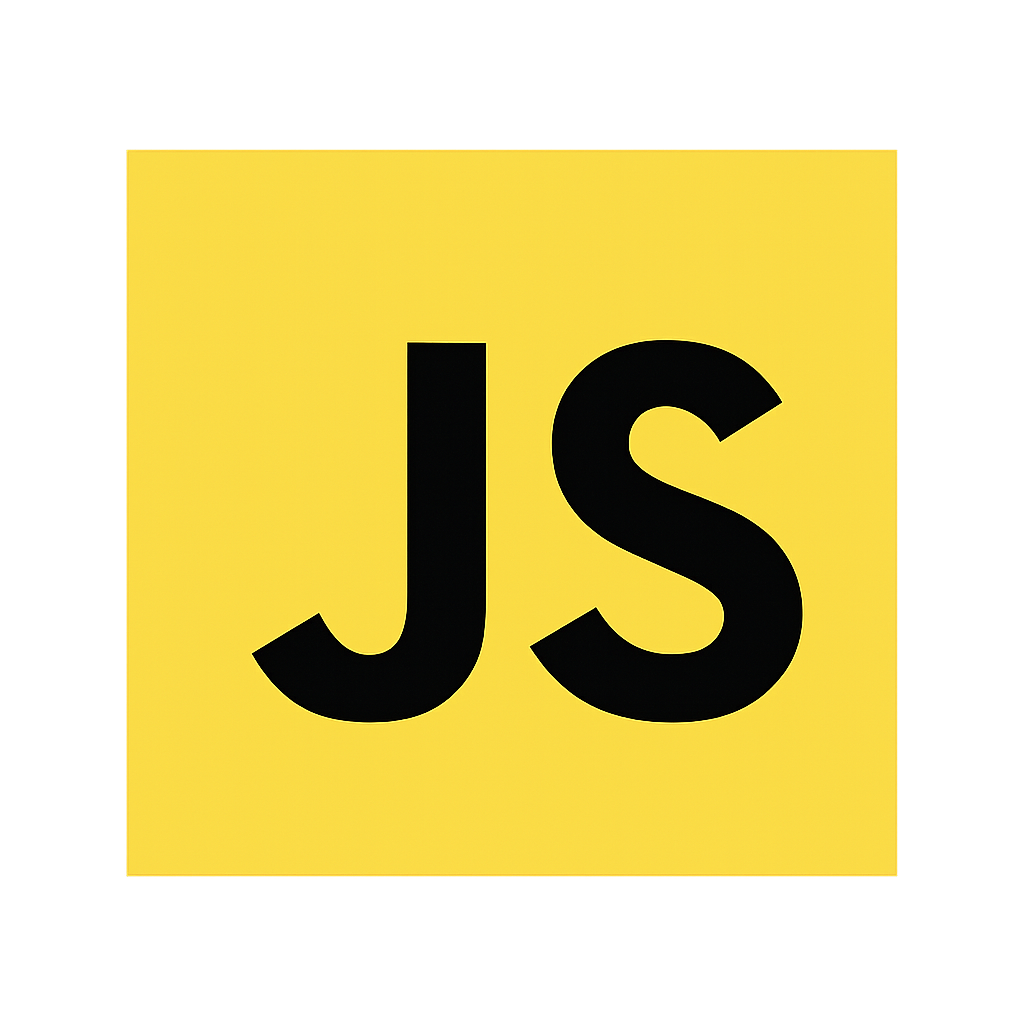
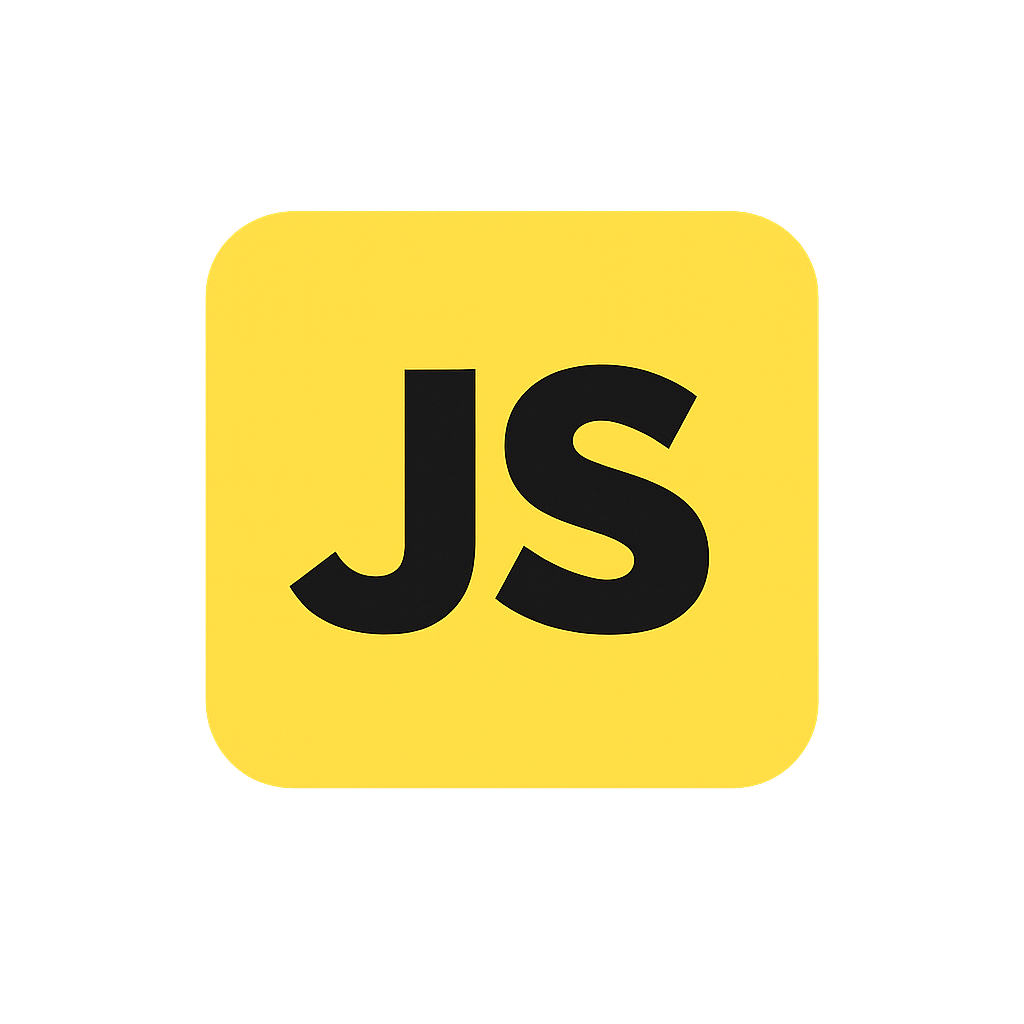
feet: ajuste de design na aba de habilidades

Changed region(s): [[0.125, 0.125, 0.875, 0.875]]

diff --git a/src/Body/Habilidades.jsx b/src/Body/Habilidades.jsx
@@ -9,79 +9,119 @@ export function Habilidades() {
         className="grid grid-cols-3 gap-8 gap-y-12 mb-4"
       >
         <li className="flex flex-col items-center">
-          <img
-            loading="eager"
-            decoding="async"
-            title="HTML"
-            src="/Habilidades/HTML.png"
-            alt="HTML"
-            className="h-14 w-14"
-          />
+          <div
+            className="w-20 h-20 rounded-md ring-2 ring-orange-400/50 
+              bg-[url('Habilidades/SkillsBg.png')] 
+                  bg-cover bg-center 
+                  flex items-center justify-center"
+          >
+            <div className=" w-full h-full flex items-center justify-center rounded-md">
+              <img
+                loading="eager"
+                decoding="async"
+                title="HTML"
+                src="Habilidades/HTML.png"
+                alt="HTML"
+                className=" pt-3"
+              />
+            </div>
+          </div>
         </li>
 
         <li className="flex flex-col items-center">
-          <img
-            loading="eager"
-            decoding="async"
-            title="CSS"
-            src="/Habilidades/CSS.png"
-            alt="CSS"
-            className="h-14 w-14"
-          />
+          <div
+            className="w-20 h-20 rounded-md ring-2 ring-blue-400/50 
+              bg-[url('Habilidades/SkillsBg.png')] 
+                  bg-cover bg-center 
+                  flex items-center justify-center"
+          >
+            <div className=" w-full h-full flex items-center justify-center rounded-md">
+              <img
+                loading="eager"
+                decoding="async"
+                title="CSS"
+                src="Habilidades/CSS.png"
+                alt="CSS"
+                className=" pt-2"
+              />
+            </div>
+          </div>
         </li>
 
         <li className="flex flex-col items-center">
-          <img
-            loading="eager"
-            decoding="async"
-            title="TAILWIND"
-            src="/Habilidades/TAILWIND.png"
-            alt="TAILWIND"
-            className="h-14 w-14"
-          />
+          <div
+            className="w-20 h-20 rounded-md ring-2 ring-sky-400/50 
+              bg-[url('Habilidades/SkillsBg.png')] 
+                  bg-cover bg-center 
+                  flex items-center justify-center"
+          >
+            <div className=" w-full h-full flex items-center justify-center rounded-md">
+              <img
+                loading="eager"
+                decoding="async"
+                title="Tailwind CSS"
+                src="Habilidades/TAILWIND.png"
+                alt="Tailwind CSS"
+              />
+            </div>
+          </div>
         </li>
 
         <li className="flex flex-col items-center">
-          <img
-            loading="eager"
-            decoding="async"
-            title="JavaScript"
-            src="/Habilidades/JS.png"
-            alt="JavaScript"
-            className="h-14 w-14"
-          />
+          <div
+            className="w-20 h-20 rounded-md ring-2 ring-yellow-200/50 
+              bg-[url('Habilidades/SkillsBg.png')] 
+                  bg-cover bg-center 
+                  flex items-center justify-center"
+          >
+            <div className=" w-full h-full flex items-center justify-center rounded-md">
+              <img
+                loading="eager"
+                decoding="async"
+                title="JavaScript"
+                src="Habilidades/JS.png"
+                alt="JavaScript"
+              />
+            </div>
+          </div>
         </li>
 
         <li className="flex flex-col items-center">
-          <img
-            loading="eager"
-            decoding="async"
-            title="REACT"
-            src="/Habilidades/react.png"
-            alt="REACT"
-            className="h-14 w-14"
-          />
+          <div className="rounded-md ring-2 p-2 ring-sky-500/50 bg-[url('Habilidades/SkillsBg.png')] bg-cover bg-center">
+            <img
+              loading="eager"
+              decoding="async"
+              title="REACT"
+              src="Habilidades/react.png"
+              alt="REACT"
+              className="h-14 w-14"
+            />
+          </div>
         </li>
 
         <li className="flex flex-col items-center">
-          <img
-            loading="eager"
-            decoding="async"
-            title="BOAS PRÁTICAS"
-            src="/Habilidades/BOAS.png"
-            alt="BOAS PRÁTICAS"
-            className="h-14 w-14 bg-white/80 rounded-md"
-          />
+          <div className="rounded-md ring-2 p-2 ring-gray-100/50 bg-[url('Habilidades/SkillsBg.png')] bg-cover bg-center">
+            <img
+              loading="eager"
+              decoding="async"
+              title="BOAS PRÁTICAS"
+              src="Habilidades/BOAS.png"
+              alt="BOAS PRÁTICAS"
+              className="h-14 w-14 bg-white/80 rounded-md"
+            />
+          </div>
         </li>
         <li className="flex flex-col items-center">
-          <img
-            loading="eager"
-            decoding="async"
-            title="TypeScript"
-            src="/Habilidades/TS.png"
-            alt="TypeScript"
-            className="h-14 w-14"
-          />
+          <div className="rounded-md ring-2 p-2 ring-blue-500/50 bg-[url('Habilidades/SkillsBg.png')] bg-cover bg-center">
+            <img
+              loading="eager"
+              decoding="async"
+              title="TypeScript"
+              src="Habilidades/TS.png"
+              alt="TypeScript"
+              className="h-14 w-14"
+            />
+          </div>
         </li>
       </ul>
       <p className="text-lg leading-relaxed text-white text-center mx-10 mt-10">
